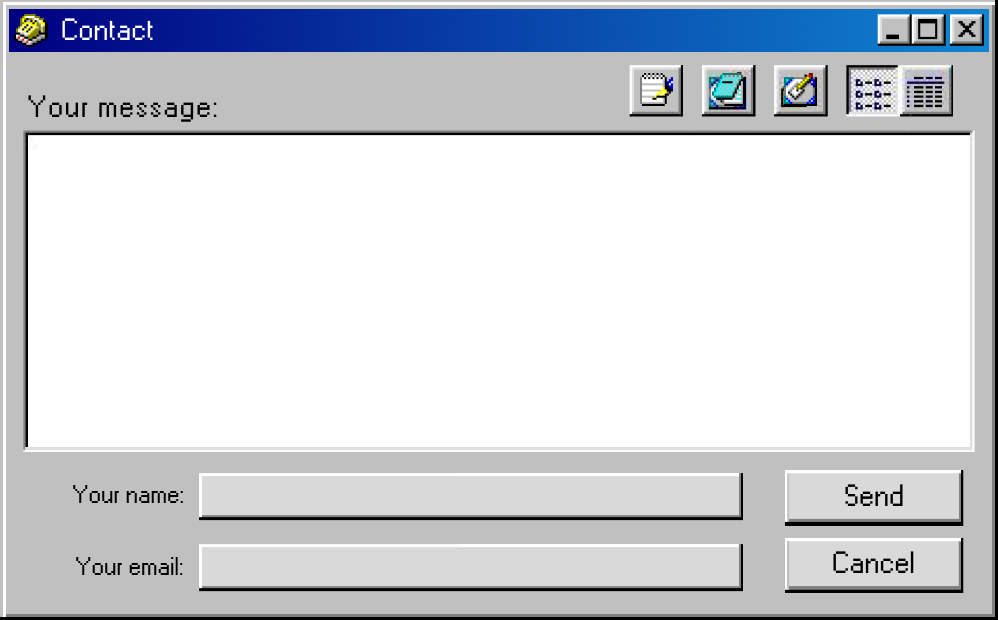
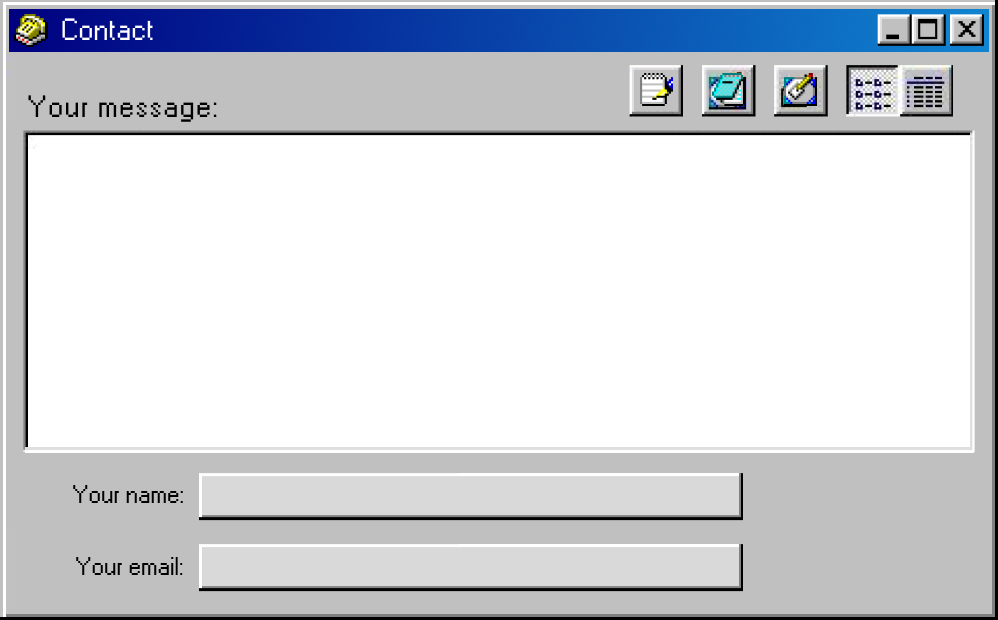
improved button click interactions in the Contact component

Changed region(s): [[0.7766, 0.7355, 0.9629, 0.9806], [0.7144, 0.1226, 0.7455, 0.1532]]

diff --git a/src/components/windows/Contact.tsx b/src/components/windows/Contact.tsx
@@ -2,10 +2,6 @@ import emailjs from "@emailjs/browser";
 import React, { useRef, useState } from "react";
 import Draggable from "react-draggable";
 
-import cancelButton from "../../assets/images/buttons/contactCancel.jpg";
-import cancelClicked from "../../assets/images/buttons/contactCancelClicked.jpg";
-import sendButton from "../../assets/images/buttons/send.jpg";
-import sendClicked from "../../assets/images/buttons/sendClicked.jpg";
 import {
   ContactButton,
   ContactFile,
@@ -117,9 +113,6 @@ const Contact = () => {
           />
           <ContactButton
             type="submit"
-            bottom={5.85}
-            background={sendButton}
-            clickedBackground={sendClicked}
             value="Send"
             onMouseDown={() =>
               setIsContactBtnClicked({ ...isContactBtnClicked, send: true })
@@ -131,12 +124,12 @@ const Contact = () => {
               });
             }}
             isClicked={isContactBtnClicked.send}
-          />
+            bottom={6.5}
+          >
+            Send
+          </ContactButton>
         </form>
         <ContactButton
-          bottom={1.7}
-          background={cancelButton}
-          clickedBackground={cancelClicked}
           onMouseDown={() =>
             setIsContactBtnClicked({ ...isContactBtnClicked, cancel: true })
           }
@@ -148,7 +141,10 @@ const Contact = () => {
             setIsOpen({ ...isOpen, contact: false });
           }}
           isClicked={isContactBtnClicked.cancel}
-        />
+          bottom={2.1}
+        >
+          <span>Cancel</span>
+        </ContactButton>
       </ContactFile>
     </Draggable>
   );

diff --git a/src/assets/style/Contact.style.tsx b/src/assets/style/Contact.style.tsx
@@ -16,8 +16,6 @@ type InputProps = {
 };
 
 type ButtonProps = {
-  background: string;
-  clickedBackground: string;
   bottom: number;
   isClicked: boolean;
 };
@@ -69,14 +67,18 @@ export const ContactInput = styled.input<InputProps>`
 `;
 
 export const ContactButton = styled.button<ButtonProps>`
-  background: ${({ isClicked, background, clickedBackground }) =>
-    isClicked
-      ? `url(${clickedBackground}) center/contain no-repeat`
-      : `url(${background}) center/contain no-repeat`};
-  height: 56px;
+  background-color: #c0c0c0;
+  box-shadow: ${({ isClicked }) =>
+    !isClicked
+      ? `-2px -2px #e0dede, -2px 0 #e0dede, 0 -2px #e0dede, -4px -4px white, -4px 0 white, 0 -4px white, 2px 2px #818181, 0 2px #818181, 2px 0 #818181,  2px -2px #e0dede, -2px 2px #818181, -4px 2px white, -4px 4px black, 4px 4px black, 4px 0 black, 0 4px black, 2px -4px white, 4px -4px black;`
+      : `-2px -2px #818181, -2px 0 #818181, 0 -2px #818181, -4px -4px black, -4px 0 black, 0 -4px black, 2px 2px #e0dede, 0 2px #e0dede, 2px 0 #e0dede,  2px -2px #818181, -2px 2px #e0dede, -4px 2px black, -4px 4px white, 4px 4px white, 4px 0 white, 0 4px white, 2px -4px black, 4px -4px white;`};
+  height: 40px;
   width: 178px;
+  font-size: 1.6rem;
+  font-family: ${primaryFont};
   position: absolute;
   right: 2.15rem;
   bottom: ${({ bottom }) => bottom + "rem"};
+  transform: ${({ isClicked }) => (isClicked ? "translate(1px, 1px)" : "")};
   cursor: pointer;
 `;

diff --git a/src/pages/Home.tsx b/src/pages/Home.tsx
@@ -21,7 +21,7 @@ const Home = () => {
   const [startPosition, setStartPosition] = useState({ x: 0, y: 0 });
   const [endPosition, setEndPosition] = useState({ x: 0, y: 0 });
 
-  const { isClicked, setIsClicked } = useGlobalContext();
+  const { isClicked, setIsClicked, setIsOpen, isOpen } = useGlobalContext();
 
   const icons: IconsType = {
     about: {
@@ -87,6 +87,7 @@ const Home = () => {
     setRectangleVisible(true);
     setStartPosition({ x: clickX, y: clickY });
     setEndPosition({ x: clickX, y: clickY });
+    setIsOpen({ ...isOpen, start: false });
   };
 
   const handleMouseMove = (e: React.MouseEvent<HTMLElement>) => {
